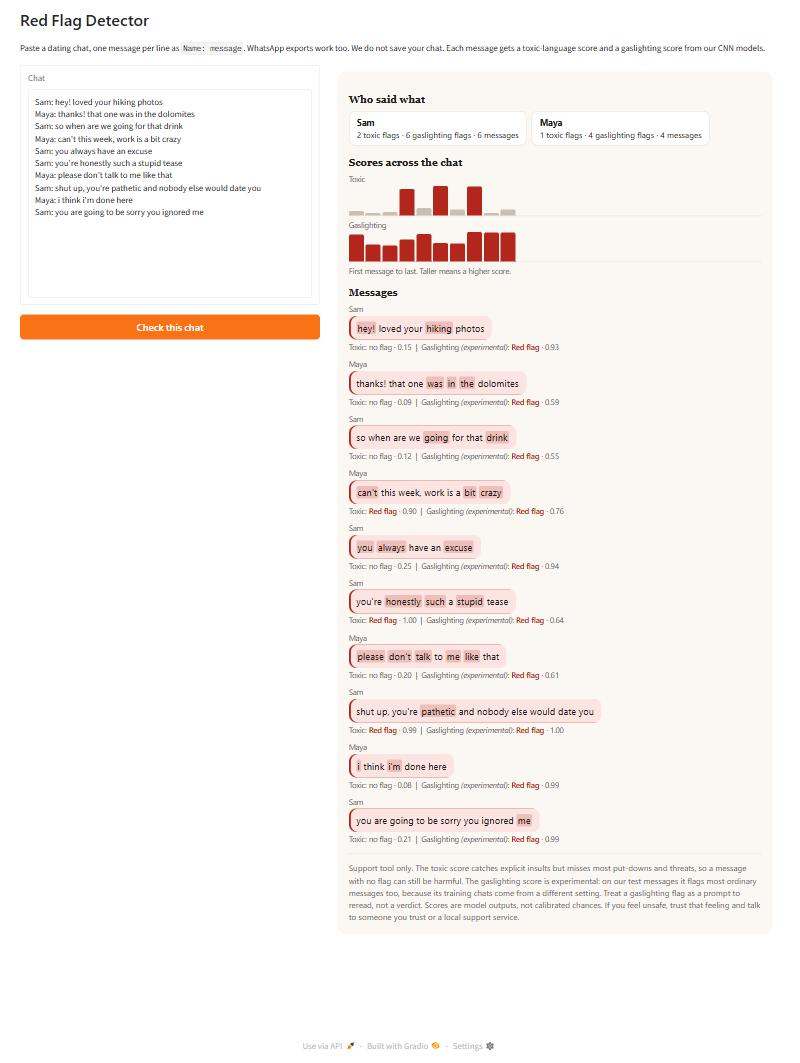
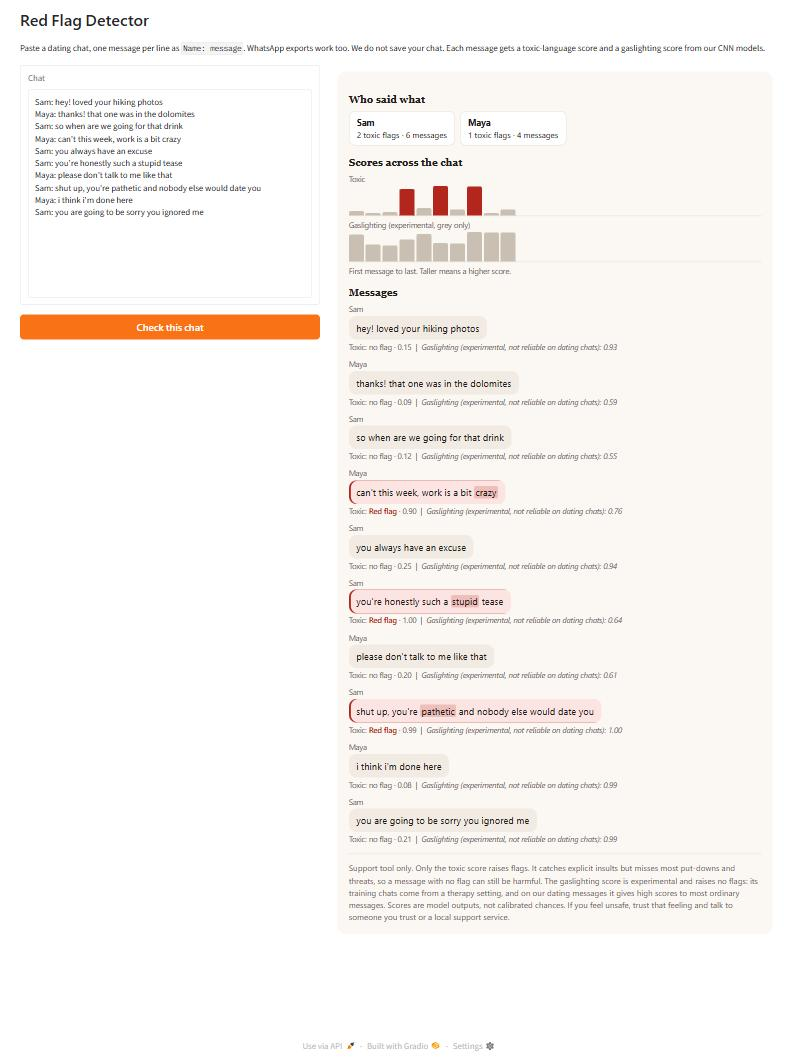
Show the gaslighting score as a grey experimental number
Only the toxic score raises flags, colours messages and counts per
sender. The gaslighting score stays visible, marked 'experimental, not
reliable on dating chats', with a grey score row. New screenshot and
README text to match.

diff --git a/src/red_flag_detector/app.py b/src/red_flag_detector/app.py
@@ -21,6 +21,9 @@ TOPICS = {"toxic": "Toxic", "gaslighting": "Gaslighting"}
 CNN_MODELS = {"toxic": MODELS_DIR / "cnn_d1.pt", "gaslighting": MODELS_DIR / "cnn_d3.pt"}
 BASELINE_MODELS = {"toxic": MODELS_DIR / "baseline_d1_100k.joblib", "gaslighting": MODELS_DIR / "baseline_d3.joblib"}
 LEVEL_ORDER = {"no flag": 0, "worth a look": 1, "red flag": 2}
+# Shown as a grey number only: it never raises a flag, colours a message or counts towards a sender.
+# Every model we trained on D3 flags most harmless dating messages, so its flags would mislead.
+EXPERIMENTAL = {"gaslighting"}
 
 SAMPLE_CHAT = """Sam: hey! loved your hiking photos
 Maya: thanks! that one was in the dolomites
@@ -65,10 +68,10 @@ STYLE = """
 """
 
 NOTE = (
-    "Support tool only. The toxic score catches explicit insults but misses most put-downs and threats, "
-    "so a message with no flag can still be harmful. The gaslighting score is experimental: on our test "
-    "messages it flags most ordinary messages too, because its training chats come from a different setting. "
-    "Treat a gaslighting flag as a prompt to reread, not a verdict. Scores are model outputs, not calibrated "
+    "Support tool only. Only the toxic score raises flags. It catches explicit insults but misses most "
+    "put-downs and threats, so a message with no flag can still be harmful. The gaslighting score is "
+    "experimental and raises no flags: its training chats come from a therapy setting, and on our dating "
+    "messages it gives high scores to most ordinary messages. Scores are model outputs, not calibrated "
     "chances. If you feel unsafe, trust that feeling and talk to someone you trust or a local support service."
 )
 
@@ -104,19 +107,21 @@ def default_models() -> tuple[dict[str, Path], str]:
 
 
 def _tag(topic: str, message: ScoredMessage) -> str:
+    if topic in EXPERIMENTAL:
+        return f'<span class="exp">{TOPICS[topic]} (experimental, not reliable on dating chats): {message.score:.2f}</span>'
     level = message.level
     css = CSS_CLASS.get(level, "")
-    label = f"{TOPICS[topic]}{' <span class=exp>(experimental)</span>' if topic == 'gaslighting' else ''}"
     text = f'<span class="{css}">{level.capitalize()}</span>' if css else level
-    return f"{label}: {text} · {message.score:.2f}"
+    return f"{TOPICS[topic]}: {text} · {message.score:.2f}"
 
 
 def _message_html(by_topic: dict[str, ScoredMessage]) -> str:
     first = next(iter(by_topic.values()))
-    worst = max((m.level for m in by_topic.values()), key=LEVEL_ORDER.get)
-    # Highlight a word if it pushed up any score that raised a flag.
+    flagging = {topic: m for topic, m in by_topic.items() if topic not in EXPERIMENTAL}
+    worst = max((m.level for m in flagging.values()), key=LEVEL_ORDER.get, default="no flag")
+    # Highlight a word if it pushed up a score that raised a flag.
     marked = set()
-    for message in by_topic.values():
+    for message in flagging.values():
         if message.level != "no flag":
             marked |= {i for i, (_, effect) in enumerate(message.word_effects) if effect >= MIN_WORD_EFFECT}
     words = [f"<mark>{html.escape(w)}</mark>" if i in marked else html.escape(w) for i, w in enumerate(first.text.split())]
@@ -128,28 +133,31 @@ def _message_html(by_topic: dict[str, ScoredMessage]) -> str:
 
 
 def _senders_html(reports: dict[str, list[ScoredMessage]]) -> str:
+    counted = [t for t in reports if t not in EXPERIMENTAL]
     rows: dict[str, dict] = {}
-    for topic, report in reports.items():
-        for message in report:
-            row = rows.setdefault(message.sender, {"messages": 0, **{t: 0 for t in reports}})
-            row["messages"] += topic == next(iter(reports))
-            row[topic] += message.level == "red flag"
-    ordered = sorted(rows.items(), key=lambda item: (-sum(item[1][t] for t in reports), item[0]))
+    for message in next(iter(reports.values())):
+        rows.setdefault(message.sender, {"messages": 0, **{t: 0 for t in counted}})["messages"] += 1
+    for topic in counted:
+        for message in reports[topic]:
+            rows[message.sender][topic] += message.level == "red flag"
+    ordered = sorted(rows.items(), key=lambda item: (-sum(item[1][t] for t in counted), item[0]))
     return "".join(
         f'<div class="sender"><b>{html.escape(sender)}</b>'
-        + " · ".join(f"{row[t]} {TOPICS[t].lower()} flags" for t in reports)
-        + f' · {row["messages"]} messages</div>'
+        + "".join(f"{row[t]} {TOPICS[t].lower()} flags · " for t in counted)
+        + f'{row["messages"]} messages</div>'
         for sender, row in ordered
     )
 
 
 def _timeline_html(topic: str, report: list[ScoredMessage]) -> str:
+    experimental = topic in EXPERIMENTAL
     ticks = "".join(
-        f'<div class="tick {CSS_CLASS.get(m.level, "")}" style="height:{max(m.score * 100, 4):.0f}%" '
-        f'title="Message {i}: {m.level}, score {m.score:.2f}"></div>'
+        f'<div class="tick {"" if experimental else CSS_CLASS.get(m.level, "")}" style="height:{max(m.score * 100, 4):.0f}%" '
+        f'title="Message {i}: score {m.score:.2f}"></div>'
         for i, m in enumerate(report, 1)
     )
-    return f'<div class="row-label">{TOPICS[topic]}</div><div class="timeline">{ticks}</div>'
+    label = f"{TOPICS[topic]} (experimental, grey only)" if experimental else TOPICS[topic]
+    return f'<div class="row-label">{label}</div><div class="timeline">{ticks}</div>'
 
 
 def render_report(reports: dict[str, list[ScoredMessage]] | list[ScoredMessage]) -> str:
@@ -179,7 +187,11 @@ def build_app(model_paths: dict[str, Path] | None = None) -> gr.Blocks:
     scorers = {topic: load_scorer(path) for topic, path in model_paths.items()}
 
     def analyse(chat: str) -> str:
-        return render_report({topic: score_chat(chat, scorer, threshold) for topic, (scorer, threshold) in scorers.items()})
+        reports = {}
+        for topic, (scorer, threshold) in scorers.items():
+            # An infinite threshold means an experimental score never reaches "red flag"; render_report ignores its level.
+            reports[topic] = score_chat(chat, scorer, float("inf") if topic in EXPERIMENTAL else threshold)
+        return render_report(reports)
 
     with gr.Blocks(title="Red Flag Detector", analytics_enabled=False) as app:
         gr.Markdown(

diff --git a/tests/test_chat.py b/tests/test_chat.py
@@ -60,9 +60,20 @@ def test_report_shows_both_scores_and_counts_flags_per_topic():
         "gaslighting": score_chat("Sam: you are awful\nMaya: fine", calm, threshold=0.7),
     }
     page = render_report(reports)
-    assert "Toxic:" in page and "Gaslighting" in page
-    assert "1 toxic flags · 0 gaslighting flags · 1 messages" in page
+    assert "Toxic:" in page and "Gaslighting (experimental, not reliable on dating chats): 0.10" in page
+    assert "1 toxic flags · 1 messages" in page and "gaslighting flags" not in page
     assert "<mark>awful</mark>" in page
+
+
+def test_experimental_gaslighting_score_never_flags_or_colours_a_message():
+    loud = lambda texts: np.array([0.99 for _ in texts])
+    reports = {
+        "toxic": score_chat("Maya: fine", fake_scorer, threshold=0.7),
+        "gaslighting": score_chat("Maya: fine", loud, threshold=0.7),
+    }
+    page = render_report(reports)
+    assert '<div class="msg ">' in page  # no flag or watch class on the bubble
+    assert "Red flag" not in page and "0.99" in page
 
 
 def test_cnn_models_in_repo_load_and_score():

diff --git a/README.md b/README.md
@@ -68,7 +68,7 @@ python -m red_flag_detector.app
 
 Open http://127.0.0.1:7860 and paste a chat with one `Name: message` per line. Each message gets two scores, toxic language and gaslighting, from our CNN models in `models/`, so you do not need any data to run it. Highlighted words are the ones that raised a flagged score most.
 
-The gaslighting score is experimental. Like every model we trained on D3, it flags most ordinary dating messages (see Results), and the app says so. Without PyTorch the app falls back to the TF-IDF baselines. To try other saved models, pass `--toxic-model` or `--gaslighting-model` with a `.pt` or `.joblib` file.
+Only the toxic score raises flags. The gaslighting score appears as a grey number marked experimental and never flags a message: like every model we trained on D3, it gives high scores to most ordinary dating messages (see Results). Without PyTorch the app falls back to the TF-IDF baselines. To try other saved models, pass `--toxic-model` or `--gaslighting-model` with a `.pt` or `.joblib` file.
 
 ## Get the data
 
